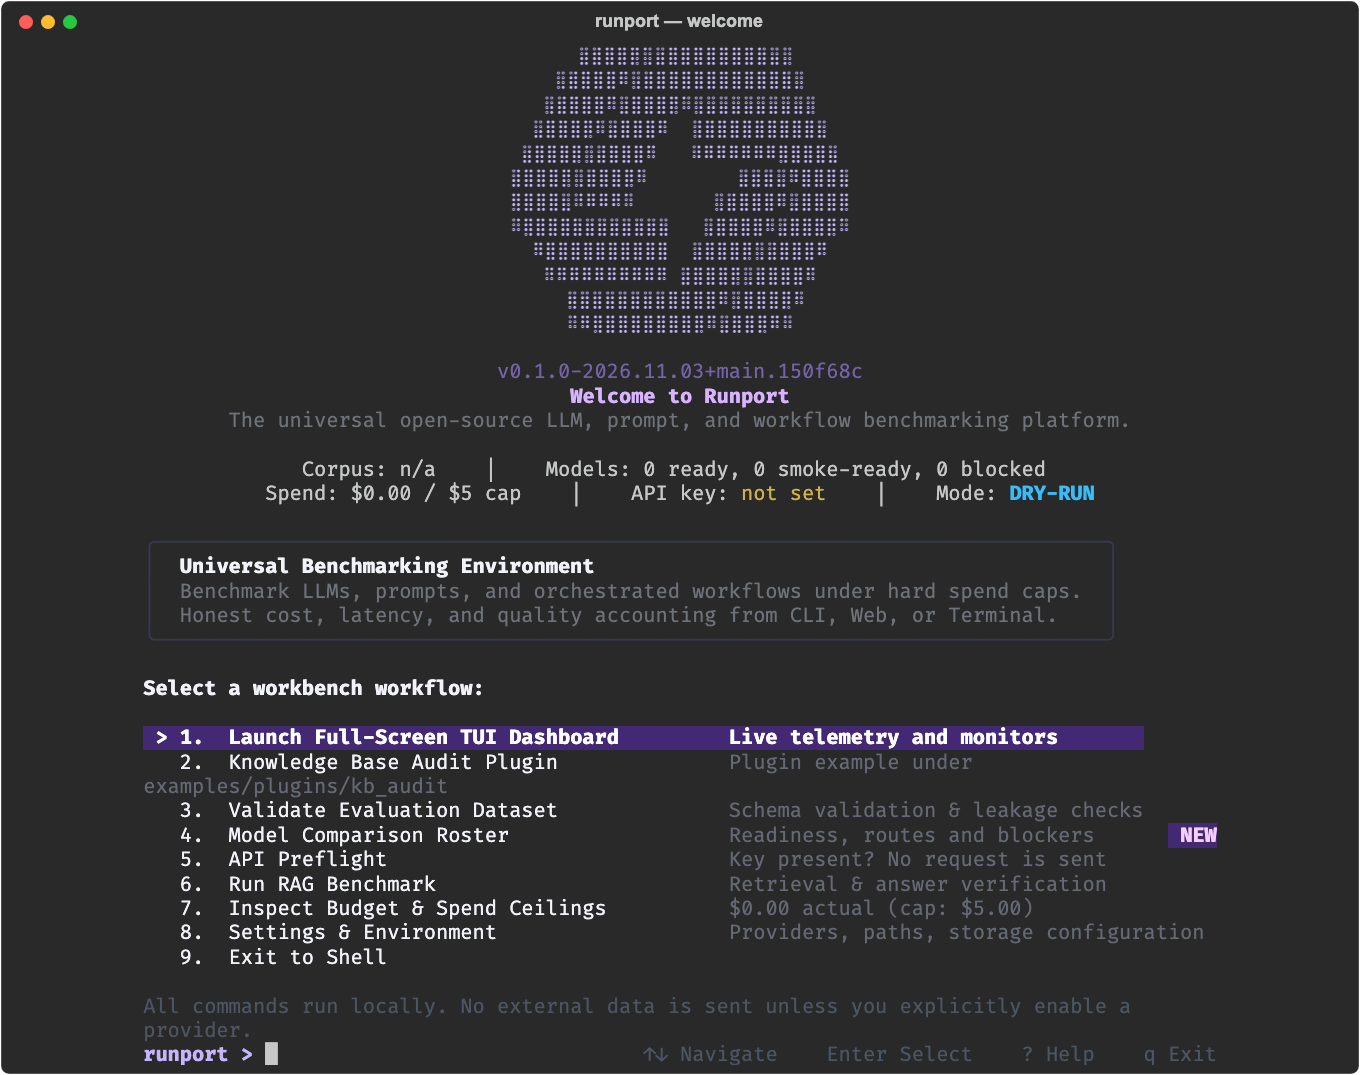
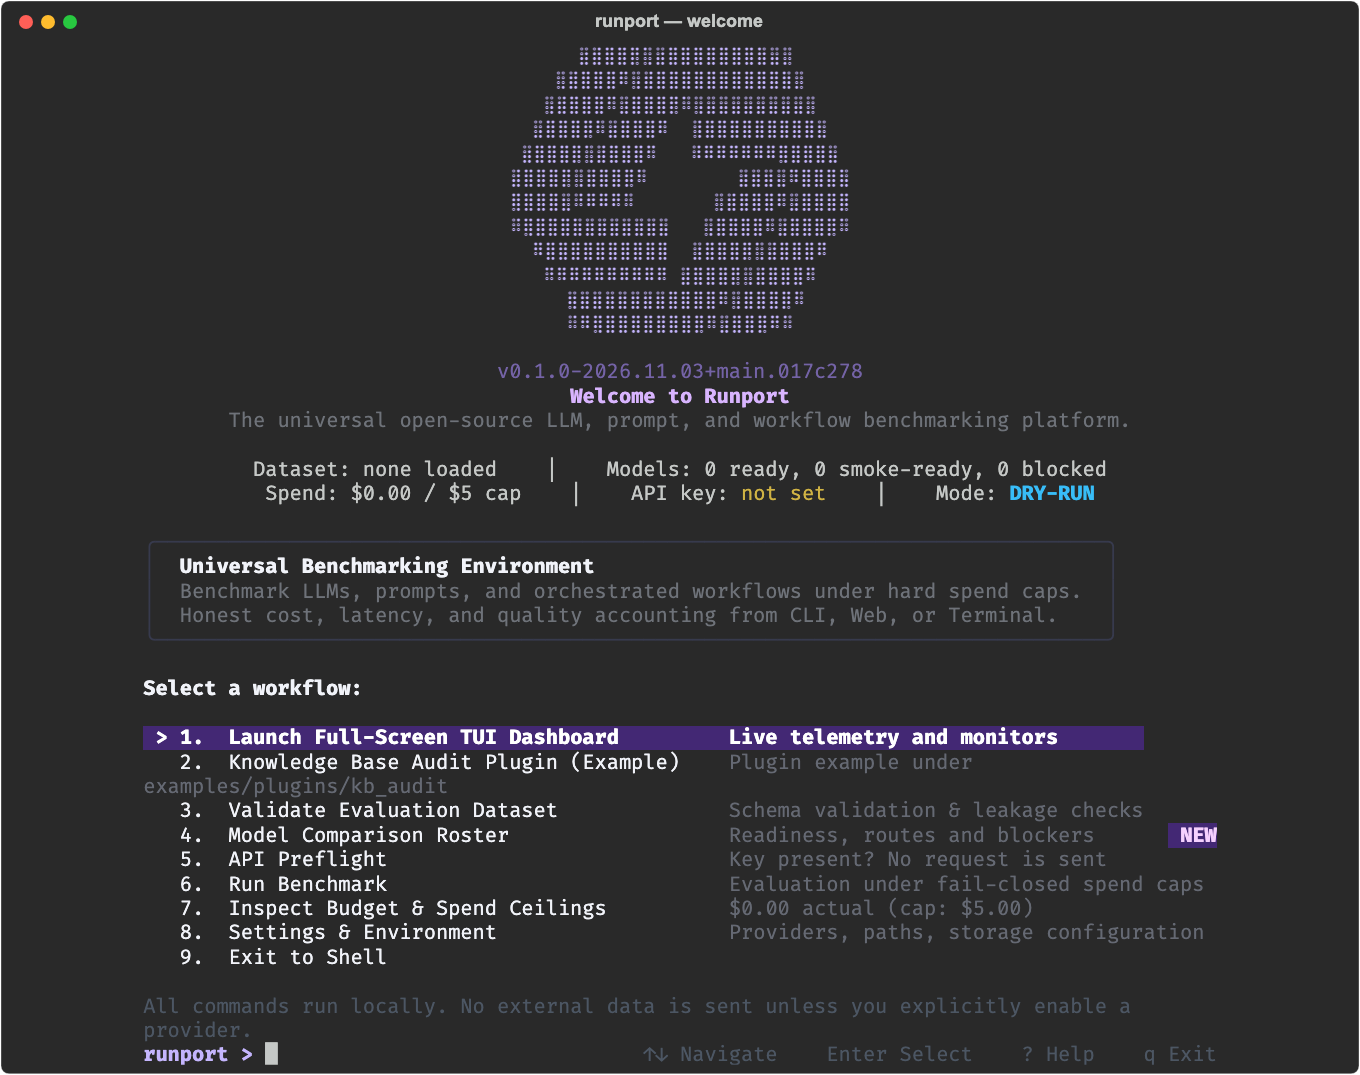
docs(readme): align readme, screenshots, and connector matrix with v0.1 release

diff --git a/README.md b/README.md
@@ -14,7 +14,7 @@
   <a href="https://github.com/Sudharsanselvaraj/runport/actions/workflows/ci.yml"><img src="https://github.com/Sudharsanselvaraj/runport/actions/workflows/ci.yml/badge.svg" alt="CI"></a>
   <a href="https://github.com/Sudharsanselvaraj/runport"><img src="https://img.shields.io/badge/status-public%20alpha-orange.svg" alt="Status"></a>
   <a href="LICENSE"><img src="https://img.shields.io/badge/license-Apache%202.0-blue.svg" alt="License"></a>
-  <a href="https://www.python.org/"><img src="https://img.shields.io/badge/python-3.11%20%7C%203.12-blue.svg" alt="Python"></a>
+  <a href="https://www.python.org/"><img src="https://img.shields.io/badge/python-3.11%20%7C%203.12%20%7C%203.13-blue.svg" alt="Python"></a>
   <a href="https://github.com/Sudharsanselvaraj/runport/stargazers"><img src="https://img.shields.io/github/stars/Sudharsanselvaraj/runport?style=flat" alt="GitHub Stars"></a>
 </p>
 
@@ -45,7 +45,7 @@ Runport is a developer-first platform for evaluating and comparing large languag
 ## Step 1: Install and start Runport
 
 ### Requirements
-- **Python**: 3.11 or 3.12
+- **Python**: 3.11, 3.12, or 3.13
 - **Package Manager**: [`uv`](https://docs.astral.sh/uv/) (recommended) or standard `pip`
 
 ```bash
